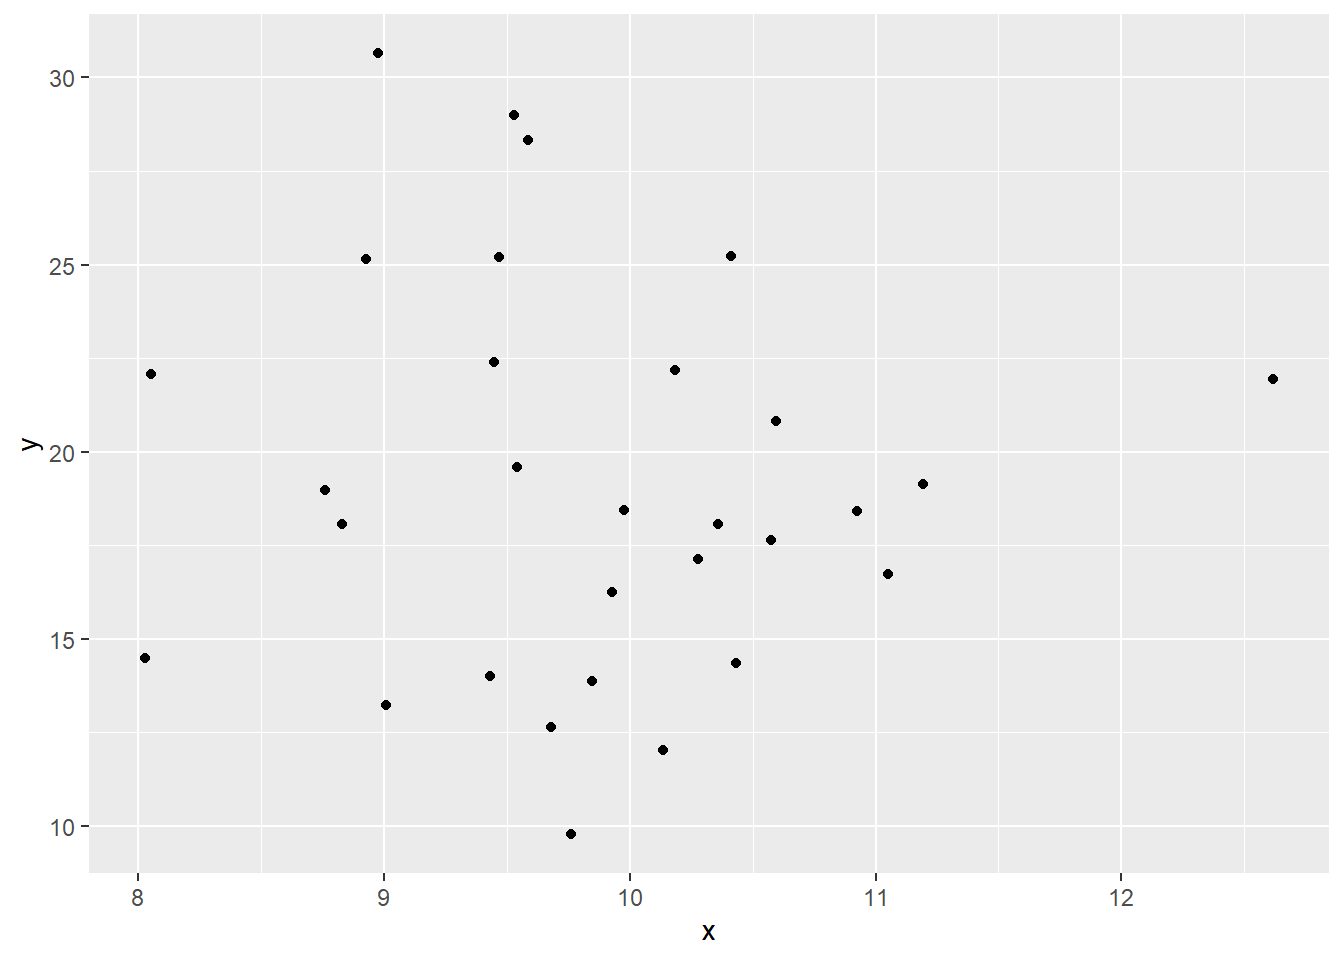
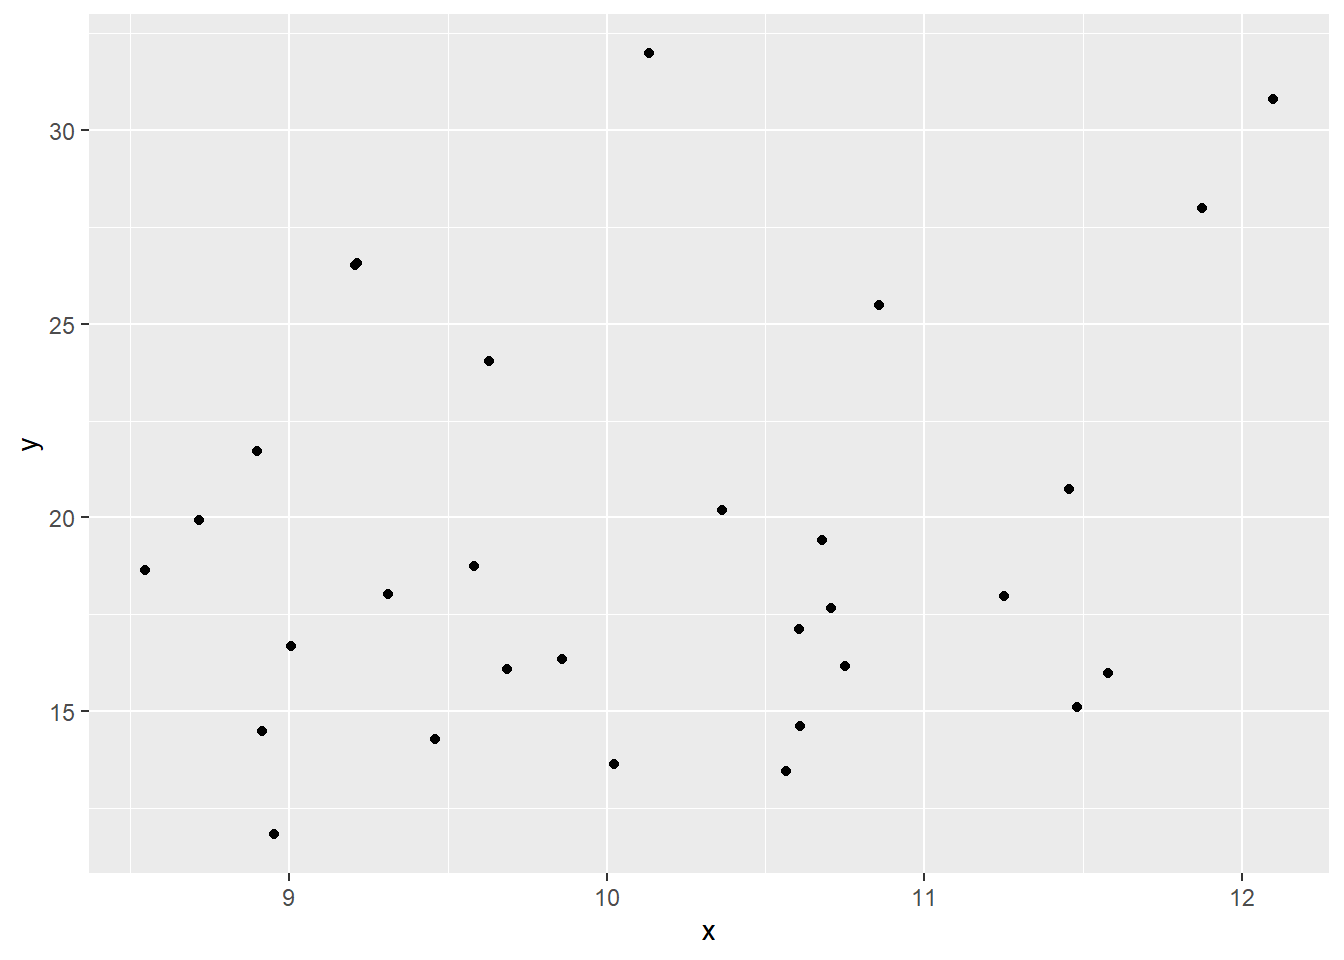
.

diff --git a/docs/Biostatistics/Chapter_06.html b/docs/Biostatistics/Chapter_06.html
@@ -364,7 +364,7 @@ window.Quarto = {
   <li><a href="#advanced-analysis-of-contingency-tables---odds-and-odds-ratios" id="toc-advanced-analysis-of-contingency-tables---odds-and-odds-ratios" class="nav-link" data-scroll-target="#advanced-analysis-of-contingency-tables---odds-and-odds-ratios">Advanced analysis of contingency tables - odds and odds ratios</a></li>
   <li><a href="#a-worked-example" id="toc-a-worked-example" class="nav-link" data-scroll-target="#a-worked-example">A worked example</a></li>
   <li><a href="#coincidence-and-causality" id="toc-coincidence-and-causality" class="nav-link" data-scroll-target="#coincidence-and-causality">Coincidence and causality</a></li>
-  <li><a href="#excercises" id="toc-excercises" class="nav-link" data-scroll-target="#excercises">Excercises</a></li>
+  <li><a href="#exercises" id="toc-exercises" class="nav-link" data-scroll-target="#exercises">Exercises</a></li>
   </ul>
 </nav>
     </div>
@@ -628,11 +628,11 @@ prophylaxis      p.value
 <table class="caption-top table">
 <caption>Table 4. Summary of a contingency table analysis testing the association between malaria prophylaxis and infection. Overall test of independence <span class="math inline">\(\chi^2 = 137.45\)</span>, <span class="math inline">\(df = 2\)</span>, <span class="math inline">\(p &lt; 10^{-6}\)</span>.</caption>
 <colgroup>
-<col style="width: 31%">
-<col style="width: 15%">
+<col style="width: 24%">
 <col style="width: 18%">
 <col style="width: 18%">
-<col style="width: 16%">
+<col style="width: 18%">
+<col style="width: 18%">
 </colgroup>
 <thead>
 <tr class="header">
@@ -713,8 +713,8 @@ prophylaxis      p.value
 </div>
 </div>
 </section>
-<section id="excercises" class="level2">
-<h2 class="anchored" data-anchor-id="excercises">Excercises</h2>
+<section id="exercises" class="level2">
+<h2 class="anchored" data-anchor-id="exercises">Exercises</h2>
 <ol type="1">
 <li><p>128 Plants were cultivated in a greenhouse experiment. In this experiment, half of the pots were fertilised with potassium while the other half were not. Flowering was recorded after two weeks of continuous potassium treatment. 51 plants of potassium-treated plants produced a flower, while in the control plant, it was 33. Does potassium significantly affect the probability of flowering?</p></li>
 <li><p>812 citizens of the same age were monitored during their lifetime in a town in Central China by the local medical authorities. It was recorded whether they drink tea and, if so, whether they prefer green or black tea. It was also monitored who in the experimental group developed cancer by the age of 0. The data were as follows:</p>

diff --git a/docs/Biostatistics/Chapter_08.html b/docs/Biostatistics/Chapter_08.html
@@ -362,7 +362,7 @@ window.Quarto = {
   <li><a href="#anova-analysis-of-variance" id="toc-anova-analysis-of-variance" class="nav-link" data-scroll-target="#anova-analysis-of-variance">ANOVA: Analysis of variance</a></li>
   <li><a href="#anova-assumptions" id="toc-anova-assumptions" class="nav-link" data-scroll-target="#anova-assumptions">ANOVA assumptions</a></li>
   <li><a href="#post-hoc-comparisons" id="toc-post-hoc-comparisons" class="nav-link" data-scroll-target="#post-hoc-comparisons">Post-hoc comparisons</a></li>
-  <li><a href="#excercises" id="toc-excercises" class="nav-link" data-scroll-target="#excercises">Excercises</a></li>
+  <li><a href="#exercises" id="toc-exercises" class="nav-link" data-scroll-target="#exercises">Exercises</a></li>
   </ul>
 </nav>
     </div>
@@ -692,8 +692,8 @@ $`as.factor(group)`
 </div>
 </div>
 </section>
-<section id="excercises" class="level2">
-<h2 class="anchored" data-anchor-id="excercises">Excercises</h2>
+<section id="exercises" class="level2">
+<h2 class="anchored" data-anchor-id="exercises">Exercises</h2>
 <ol type="1">
 <li><p>The temperature of water in one pot was measured by different thermometers manufactured by two companies: Termom and Celsimet. Each of them provided ten thermometers for the testing. The aim of the testing was to detect potential systematic bias (whether the thermometers of one company show, on average, different values from those made by the other) and whether there is a difference in accuracy. The data were as follows:</p>
 <p>Termom: 18, 19, 18, 17, 16, 19, 18, 17, 19, 18</p>
@@ -703,13 +703,13 @@ $`as.factor(group)`
 <table class="caption-top table">
 <caption>Table 1. Dry weight above-ground biomass from pot experiment. DWb = dry weight biomass.</caption>
 <colgroup>
-<col style="width: 14%">
-<col style="width: 14%">
-<col style="width: 14%">
-<col style="width: 14%">
-<col style="width: 14%">
-<col style="width: 14%">
-<col style="width: 14%">
+<col style="width: 33%">
+<col style="width: 10%">
+<col style="width: 10%">
+<col style="width: 10%">
+<col style="width: 10%">
+<col style="width: 10%">
+<col style="width: 10%">
 </colgroup>
 <thead>
 <tr class="header">
@@ -965,7 +965,7 @@ $`as.factor(group)`
 <table class="caption-top table">
 <caption>Table 4. Chlorophyll concentration in leaves on different substrates.</caption>
 <colgroup>
-<col style="width: 14%">
+<col style="width: 9%">
 <col style="width: 14%">
 <col style="width: 14%">
 <col style="width: 14%">

diff --git a/docs/Biostatistics/Chapter_05.html b/docs/Biostatistics/Chapter_05.html
@@ -364,7 +364,7 @@ window.Quarto = {
   <li><a href="#hypothesis-testing-with-statistics" id="toc-hypothesis-testing-with-statistics" class="nav-link" data-scroll-target="#hypothesis-testing-with-statistics">Hypothesis testing with statistics</a></li>
   <li><a href="#goodness-of-fit" id="toc-goodness-of-fit" class="nav-link" data-scroll-target="#goodness-of-fit">Goodness-of-fit</a></li>
   <li><a href="#goodness-of-fit-test-example" id="toc-goodness-of-fit-test-example" class="nav-link" data-scroll-target="#goodness-of-fit-test-example">Goodness-of-fit test example</a></li>
-  <li><a href="#excercises" id="toc-excercises" class="nav-link" data-scroll-target="#excercises">Excercises</a></li>
+  <li><a href="#exercises" id="toc-exercises" class="nav-link" data-scroll-target="#exercises">Exercises</a></li>
   </ul>
 </nav>
     </div>
@@ -604,8 +604,8 @@ X-squared = 7.1111, df = 1, p-value = 0.007661</code></pre>
 </section>
 </div>
 </section>
-<section id="excercises" class="level2">
-<h2 class="anchored" data-anchor-id="excercises">Excercises</h2>
+<section id="exercises" class="level2">
+<h2 class="anchored" data-anchor-id="exercises">Exercises</h2>
 <ol type="1">
 <li><p>Color preferences of bees were studied. The bees were released one by one to a room with four circles of different colors. The color of the circle to which each bee first landed was recorded. The results were the following: red 10, yellow 25, blue 18, green 6. Do the bees prefer any color?</p></li>
 <li><p>The expected phenotype ratio AB:Ab:aB:ab in the F2 generation (AABB x aabb) is 9:3:3:1. The real numbers were as follows: 125, 60, 50, 12. Are the ratios different from those expected under Mendel’s rules?</p></li>

diff --git a/docs/Biostatistics/Chapter_07.html b/docs/Biostatistics/Chapter_07.html
@@ -363,7 +363,7 @@ window.Quarto = {
   <li><a href="#single-sample-t-test" id="toc-single-sample-t-test" class="nav-link" data-scroll-target="#single-sample-t-test">Single sample t-test</a></li>
   <li><a href="#student-t-test" id="toc-student-t-test" class="nav-link" data-scroll-target="#student-t-test">Student t-test</a></li>
   <li><a href="#paired-t-test" id="toc-paired-t-test" class="nav-link" data-scroll-target="#paired-t-test">Paired t-test</a></li>
-  <li><a href="#excercises" id="toc-excercises" class="nav-link" data-scroll-target="#excercises">Excercises</a></li>
+  <li><a href="#exercises" id="toc-exercises" class="nav-link" data-scroll-target="#exercises">Exercises</a></li>
   </ul>
 </nav>
     </div>
@@ -538,8 +538,8 @@ DF = n_1 - 1 + n_2 - 1
 </div>
 </div>
 </section>
-<section id="excercises" class="level2">
-<h2 class="anchored" data-anchor-id="excercises">Excercises</h2>
+<section id="exercises" class="level2">
+<h2 class="anchored" data-anchor-id="exercises">Exercises</h2>
 <ol type="1">
 <li><p>Import the data <code>people</code> used in the first practicals. Plot a dotchart displaying height means with 95% confidence intervals for each of the groups of people defined by sex and eye color.</p></li>
 <li><p>Import the <code>lettuce</code> data again, used in the graph plotting workshops. Test whether green- and red-leaved lettuce varieties differ in harvest mass and harvest date. Check the patterns on the corresponding plots.</p></li>
